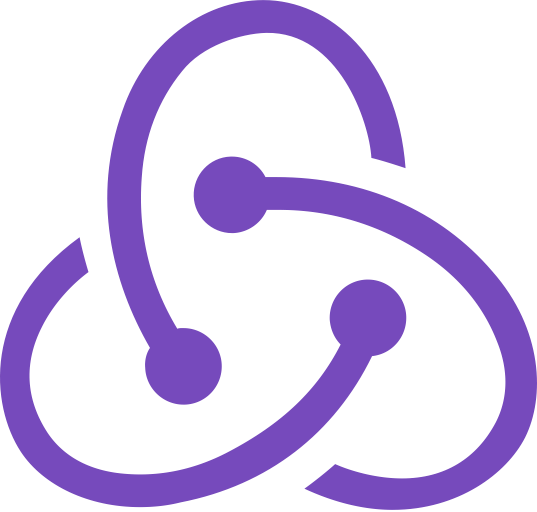
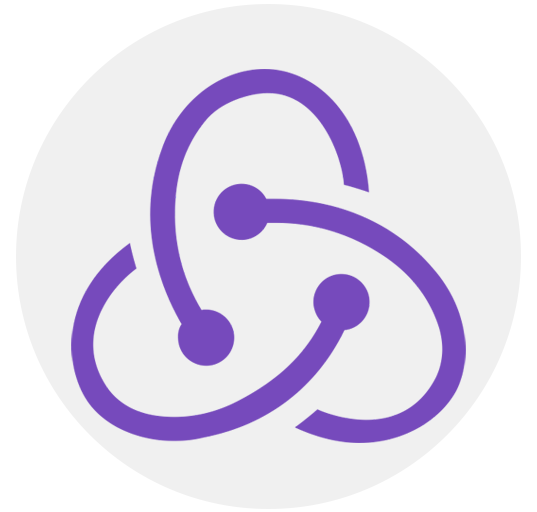
Added Google Analytics

diff --git a/index.html b/index.html
@@ -11,6 +11,13 @@
 		<meta charset="utf-8" />
 		<meta name="viewport" content="width=device-width, initial-scale=1, user-scalable=no" />
 		<link rel="stylesheet" href="assets/css/main.css" />
+		<script>
+			window.dataLayer = window.dataLayer || [];
+			function gtag(){dataLayer.push(arguments);}
+			gtag('js', new Date());
+
+			gtag('config', 'G-2KSW16QHY6');
+		</script>
 		<noscript><link rel="stylesheet" href="assets/css/noscript.css" /></noscript>
 	</head>
 	<body class="landing is-preload">
@@ -139,7 +146,12 @@
 								<label class="tech-icon-label"><img class="tech-icon" src="./images/tech-icons/postgres.png" alt="">PostgreSQL</label>
 								<label class="tech-icon-label"><img class="tech-icon" src="./images/tech-icons/rails.png" alt="">Rails</label>
 								<label class="tech-icon-label"><img class="tech-icon" src="./images/tech-icons/React.png" alt="">React</label>
-								<label class="tech-icon-label"><img class="tech-icon" src="./images/tech-icons/redux.png" alt="">Redux</label>
+								<label class="tech-icon-label">
+								<div class="relative-redux">
+									<img id="redux-img" class="tech-icon" src="./images/tech-icons/redux.png" alt="">Redux
+									<div id="redux" class="absolute"></div>
+								</div>
+							</label>
 								<label class="tech-icon-label"><img class="tech-icon" src="./images/tech-icons/next-js.png" alt="">NextJS</label>
 								<label class="tech-icon-label"><img class="tech-icon" src="./images/tech-icons/mongodb.png" alt="">MongoDB</label>
 							</div>

diff --git a/about.html b/about.html
@@ -11,6 +11,14 @@
 		<meta charset="utf-8" />
 		<meta name="viewport" content="width=device-width, initial-scale=1, user-scalable=no" />
 		<link rel="stylesheet" href="assets/css/main.css" />
+		<script async src="https://www.googletagmanager.com/gtag/js?id=G-2KSW16QHY6"></script>
+		<script>
+			window.dataLayer = window.dataLayer || [];
+			function gtag(){dataLayer.push(arguments);}
+			gtag('js', new Date());
+
+			gtag('config', 'G-2KSW16QHY6');
+		</script>
 		<noscript><link rel="stylesheet" href="assets/css/noscript.css" /></noscript>
 	</head>
 	<body class="is-preload">

diff --git a/assets/css/main.css b/assets/css/main.css
@@ -4051,5 +4051,29 @@ input, select, textarea {
 		justify-content: center;
 	}
 
+	#redux {
+		width: 80px;
+		height: 80px;
+		background: rgba(255, 255, 255);
+		border-radius: 50%;
+		bottom: 3.75vmin;
+		left: 2.4vmin;
+		z-index: -1;
+	}
+
+	.relative-redux {
+		position: relative;
+	}
+
+	.absolute {
+		position: absolute;
+	}
+
+	#redux-img {
+		background-color: transparent;
+		/* position: absolute; */
+		z-index: 1;
+	}
+
 
 
